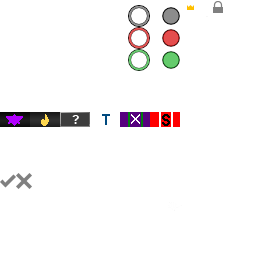
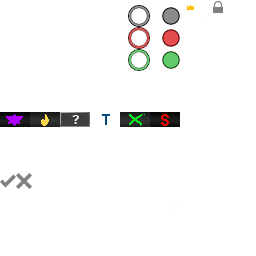
Added DR notifications. Switched off Travis test packaging. Altered barren palette a little. Updated faction flags. Updated map importer to handle campaign maps.

Changed region(s): [[0.4688, 0.4375, 0.7188, 0.5]]

diff --git a/OpenRA.Mods.Dr/FileFormats/ScnFile.cs b/OpenRA.Mods.Dr/FileFormats/ScnFile.cs
@@ -1,4 +1,5 @@
 #region Copyright & License Information
+
 /*
  * Copyright 2007-2018 The OpenRA Developers (see AUTHORS)
  * This file is part of OpenRA, which is free software. It is made
@@ -7,6 +8,7 @@
  * the License, or (at your option) any later version. For more
  * information, see COPYING.
  */
+
 #endregion
 
 using System;
@@ -25,7 +27,12 @@ namespace OpenRA.Mods.Dr.FileFormats
 		const string SetDefaultTerrainStr = "SetDefaultTerrain";
 		const string AddBuildingAtStr = "AddBuildingAt";
 
-		public IEnumerable<ScnSection> Entries { get { return entries; } }
+		bool skipNextBlock = false;
+
+		public IEnumerable<ScnSection> Entries
+		{
+			get { return entries; }
+		}
 
 		List<ScnSection> entries = new List<ScnSection>();
 
@@ -43,30 +50,42 @@ namespace OpenRA.Mods.Dr.FileFormats
 
 		public void Load(Stream s)
 		{
-			var reader = new StreamReader(s);
-
-			while (!reader.EndOfStream)
+			try
 			{
-				var line = reader.ReadLine();
+				var reader = new StreamReader(s);
 
-				if (line.Length == 0) continue;
-
-				switch (line[0])
+				while (!reader.EndOfStream)
 				{
-					case ';':
-						break;
-					case '{':
-					case '}':
-						break;
-					default:
-						ProcessEntry(line);
-						break;
+					var line = reader.ReadLine();
+
+					if (line.Length == 0) continue;
+
+					switch (line[0])
+					{
+						case ';':
+							break;
+						case '{':
+							break;
+						case '}':
+							skipNextBlock = false;
+							break;
+						default:
+							ProcessEntry(line);
+							break;
+					}
 				}
+			}
+			catch (Exception ex)
+			{
+				throw ex;
 			}
 		}
 
 		bool ProcessEntry(string line)
 		{
+			if (skipNextBlock)
+				return false;
+
 			var comment = line.IndexOf(';');
 			if (comment >= 0)
 				line = line.Substring(0, comment);
@@ -79,14 +98,19 @@ namespace OpenRA.Mods.Dr.FileFormats
 
 			if (line.StartsWith(PlayerStartStr))
 				entries.Add(scnEntry);
-			if (line.StartsWith(AddThingStr))
+			else if (line.StartsWith(AddThingStr))
 				entries.Add(scnEntry);
-			if (line.StartsWith(SetTeamSideStr))
+			else if (line.StartsWith(SetTeamSideStr))
 				entries.Add(scnEntry);
-			if (line.StartsWith(SetDefaultTerrainStr))
+			else if (line.StartsWith(SetDefaultTerrainStr))
 				entries.Add(scnEntry);
-			if (line.StartsWith(AddBuildingAtStr))
+			else if (line.StartsWith(AddBuildingAtStr))
 				entries.Add(scnEntry);
+			else if (line.StartsWith("DefineSpecialForces"))
+			{
+				skipNextBlock = true;
+				return false;
+			}
 
 			return true;
 		}

diff --git a/OpenRA.Mods.Dr/UtilityCommands/ImportDrMapCommand.cs b/OpenRA.Mods.Dr/UtilityCommands/ImportDrMapCommand.cs
@@ -70,6 +70,8 @@ namespace OpenRA.Mods.Dr.UtilityCommands
 				stream.ReadInt32(); // Tileset num???
 				var tilesetName = "BARREN";
 
+				filename = filename.ToLowerInvariant();
+
 				var scnFilename = filename.Replace(".map", ".scn");
 				using (var scn = File.OpenRead(scnFilename))
 				{
